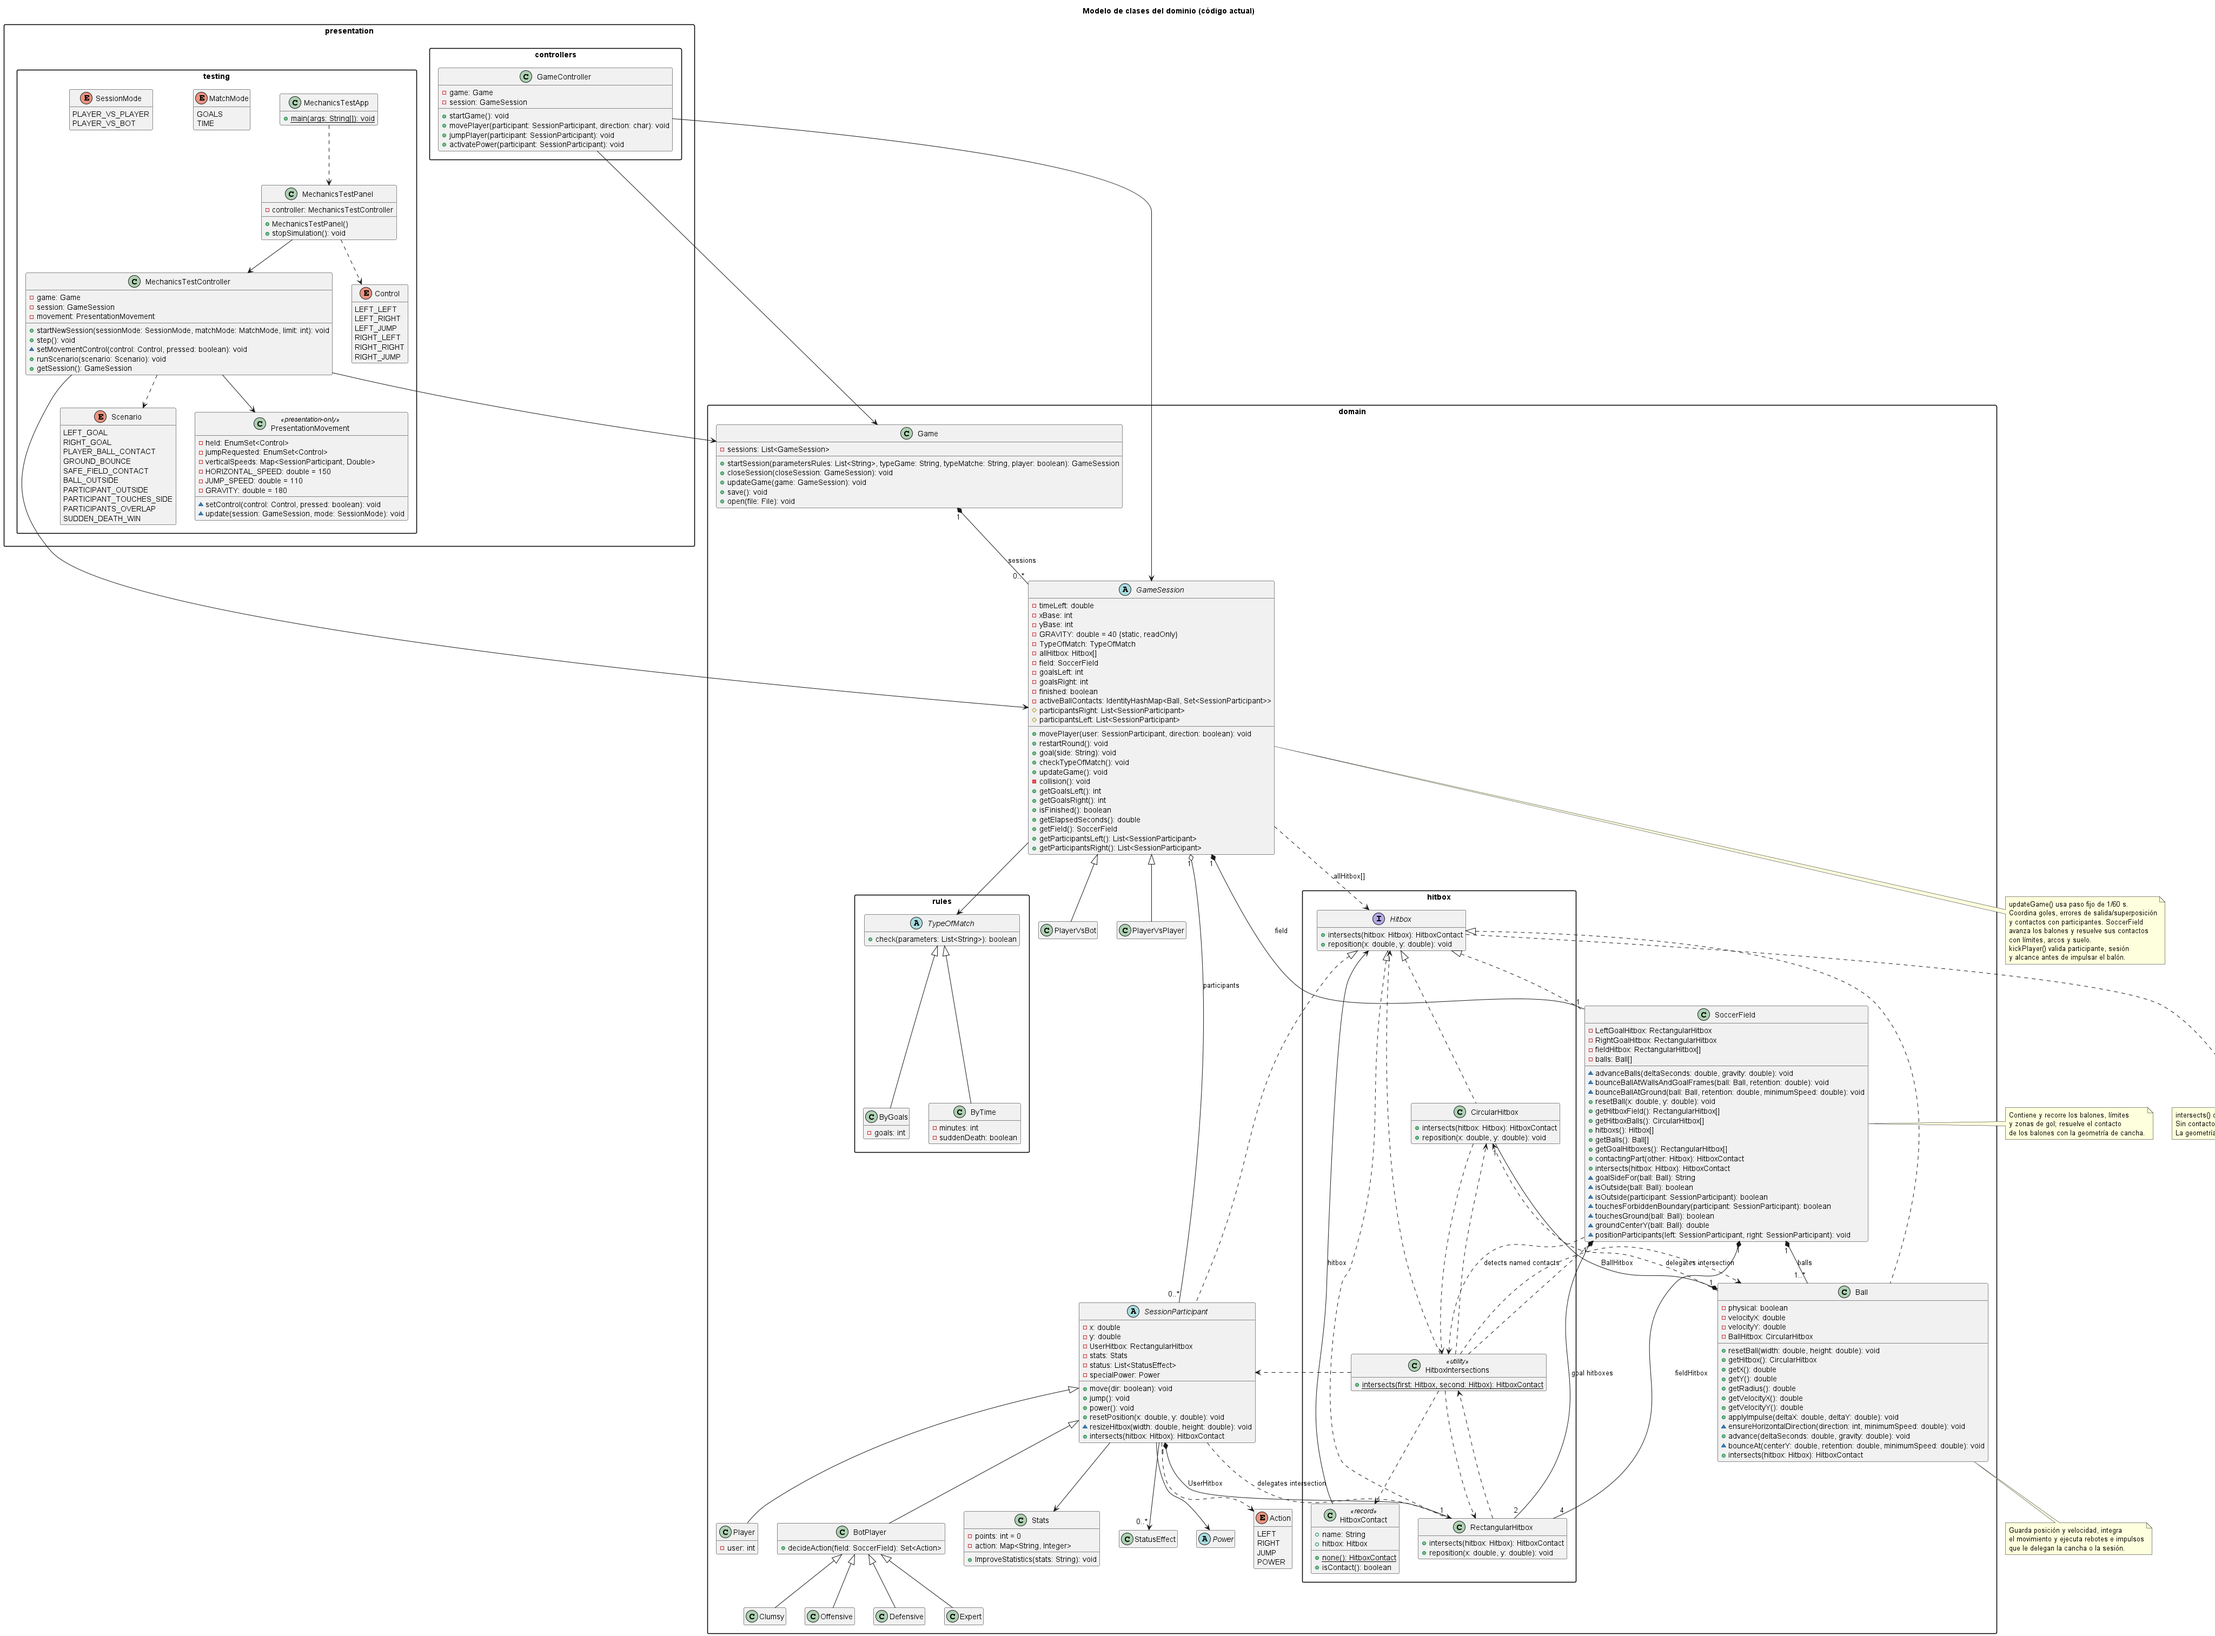
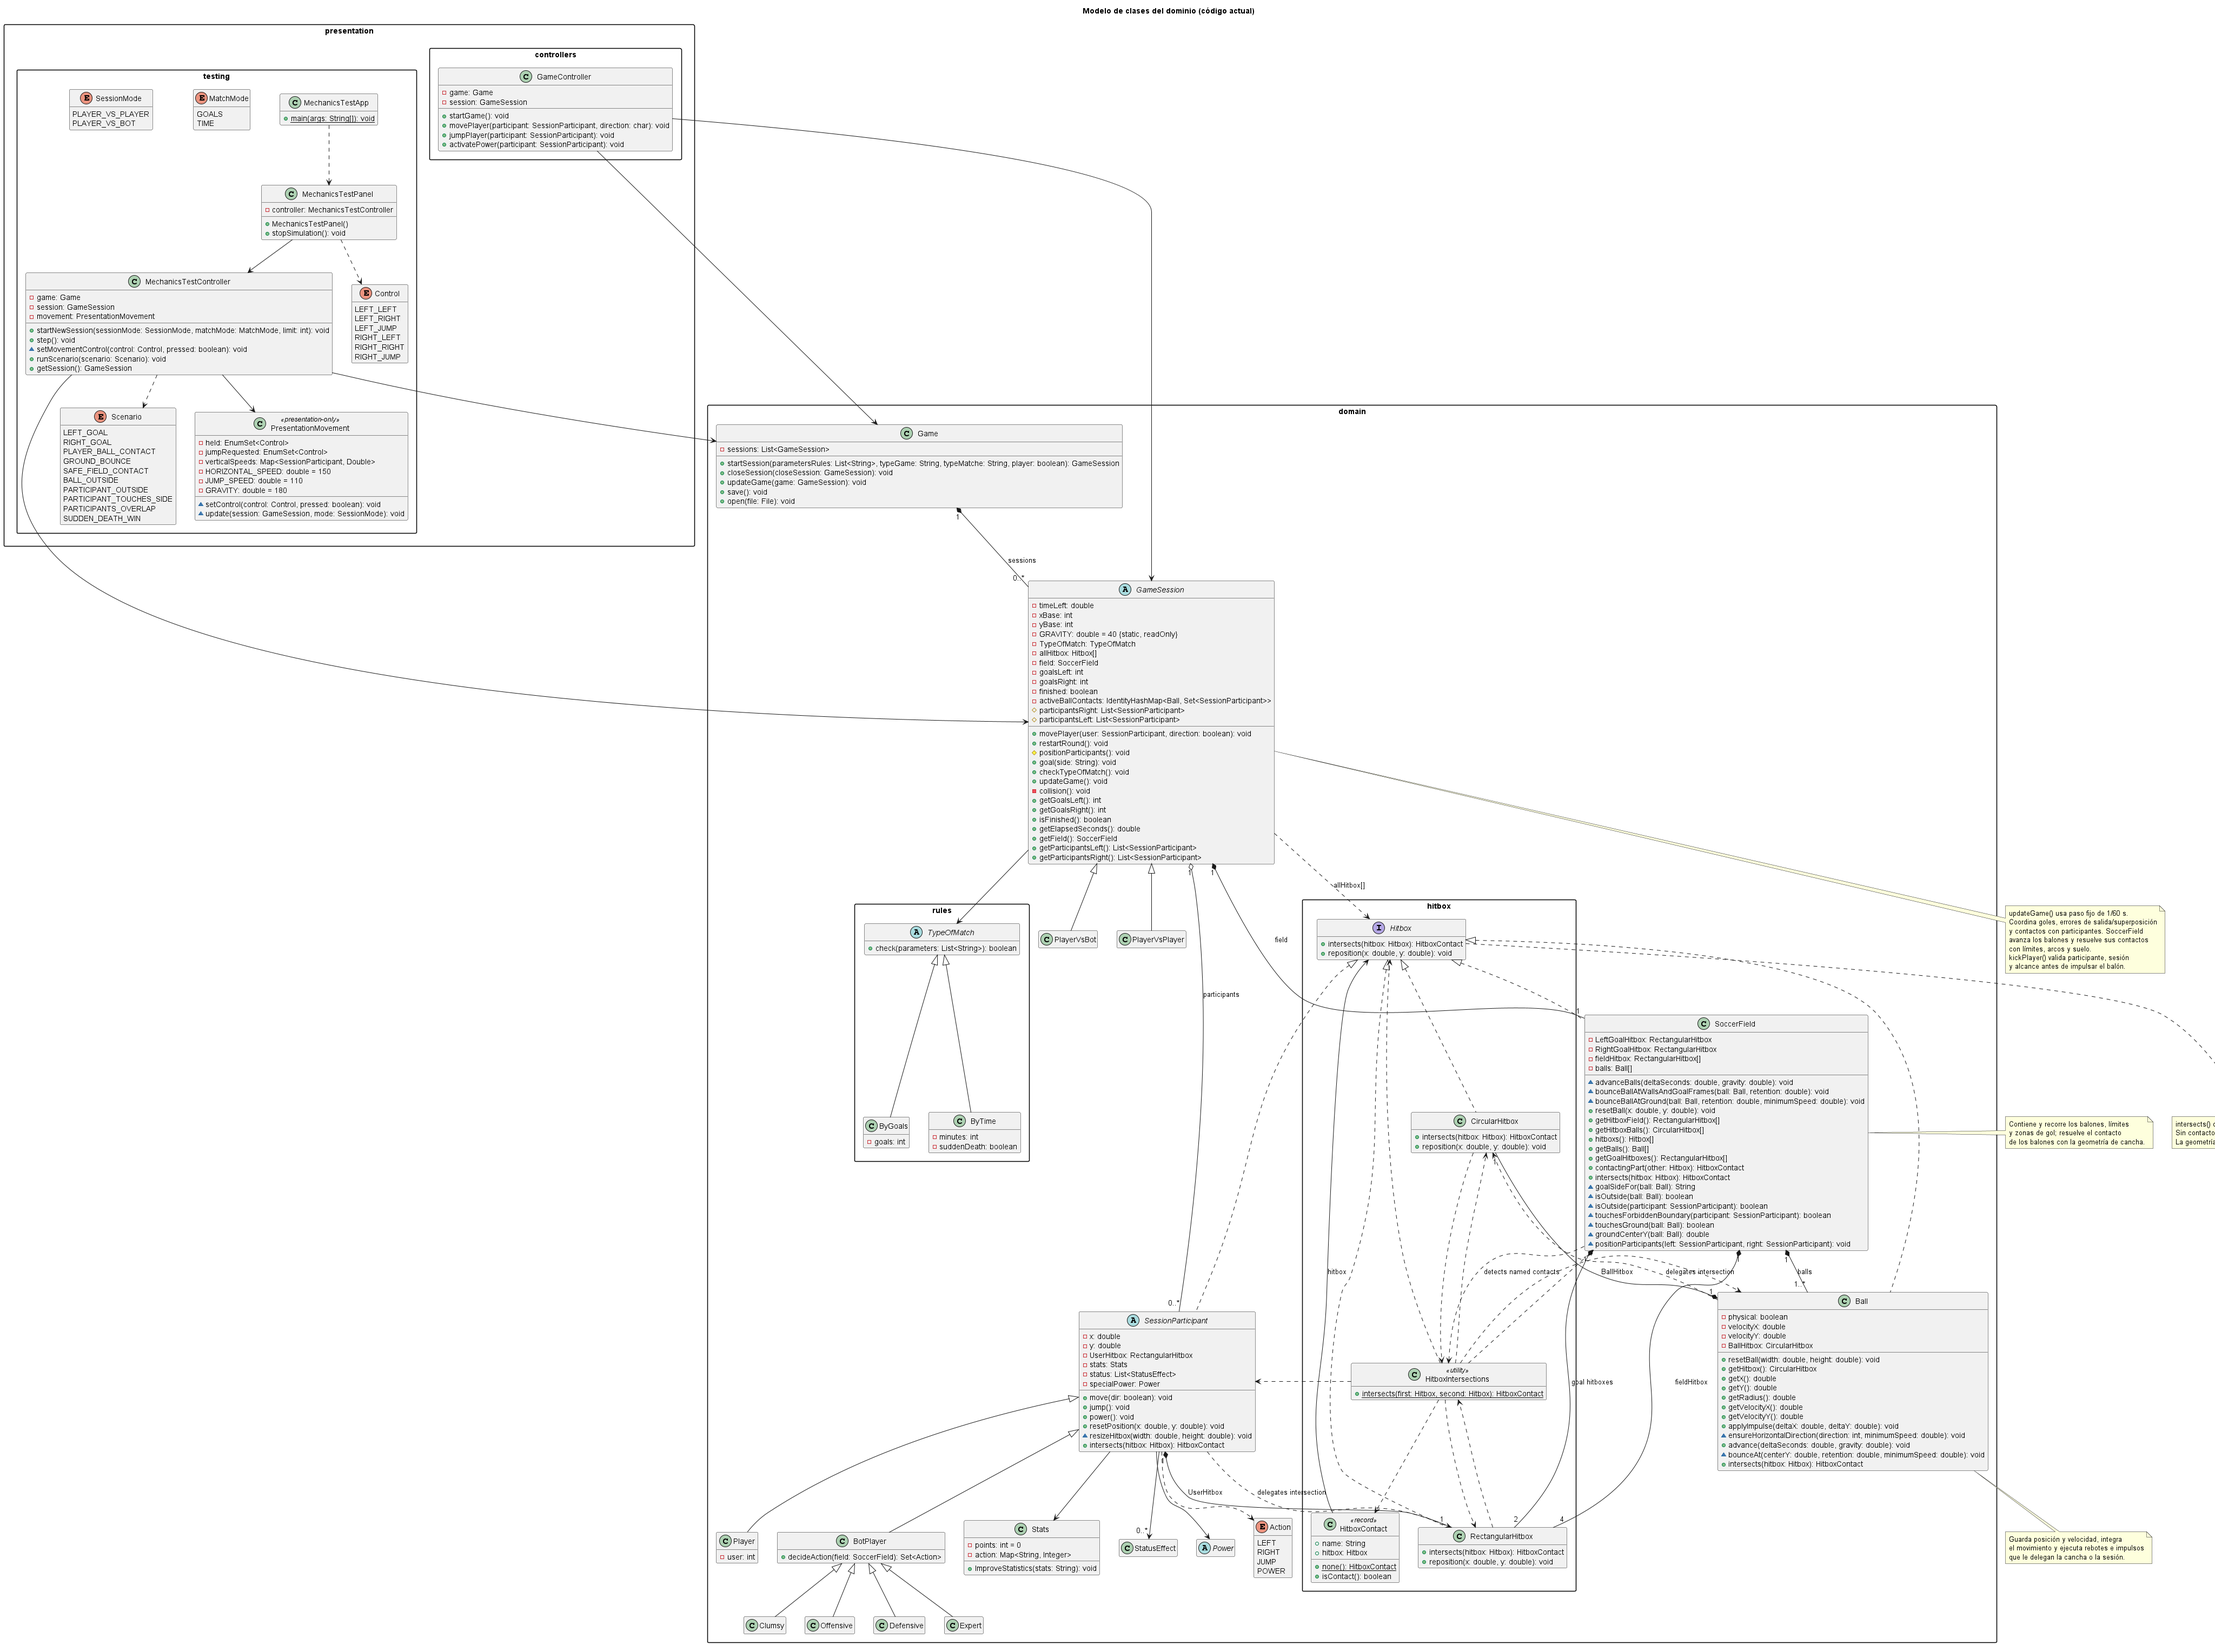
ajuste de responsabilidades con ball y ajustando los cambios en los diagrama de clase para la entrega

diff --git a/src/main/java/domain/GameSession.java b/src/main/java/domain/GameSession.java
@@ -348,7 +348,7 @@ public abstract class GameSession {
      * Delega a la cancha la colocación simétrica del primer participante de
      * cada lista; si alguno de los lados no tiene participantes, no hace cambios.
      */
-    private void positionParticipants() {
+    protected void positionParticipants() {
         if (!participantsLeft.isEmpty() && !participantsRight.isEmpty()) {
             field.positionParticipants(participantsLeft.get(0), participantsRight.get(0));
         }
